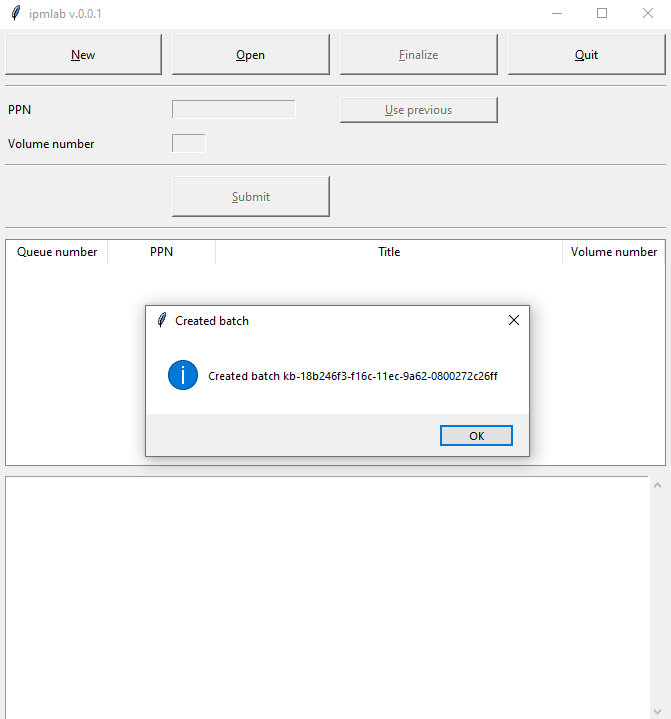
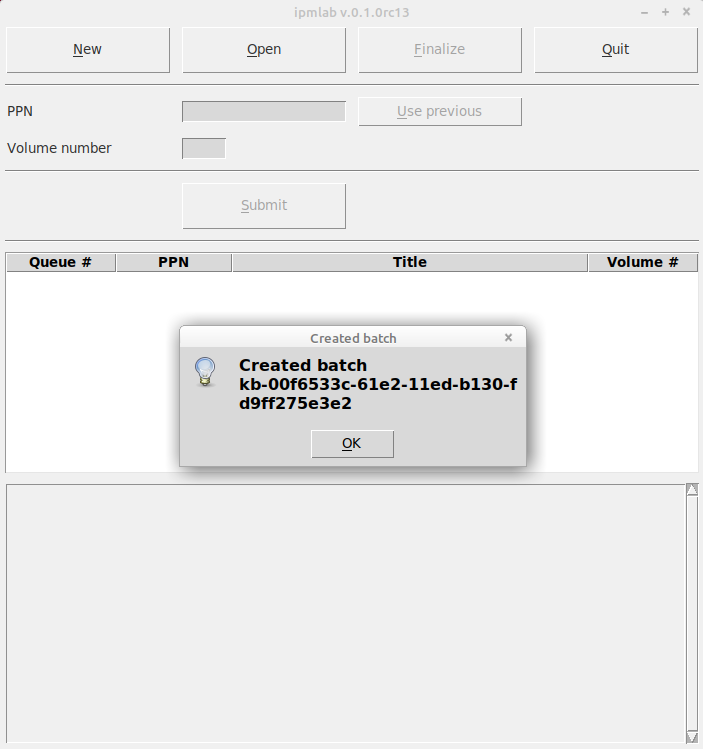
updated screenshots

diff --git a/ipmlab/ipmlab.py b/ipmlab/ipmlab.py
@@ -563,10 +563,10 @@ class carrierEntry(tk.Frame):
         # Treeview widget displays info on entered carriers
         self.tv = ttk.Treeview(self, height=10,
                                columns=('PPN', 'Title', 'VolumeNo'))
-        self.tv.heading('#0', text='Queue number')
+        self.tv.heading('#0', text='Queue #')
         self.tv.heading('#1', text='PPN')
         self.tv.heading('#2', text='Title')
-        self.tv.heading('#3', text='Volume number')
+        self.tv.heading('#3', text='Volume #')
         self.tv.column('#0', stretch=tk.YES, width=5)
         self.tv.column('#1', stretch=tk.YES, width=10)
         self.tv.column('#2', stretch=tk.YES, width=250)

diff --git a/doc/userGuide.md b/doc/userGuide.md
@@ -2,17 +2,6 @@
 
 This User Guide assumes that Ipmlab and its dependencies have been installed and configure. If this is not the case, consult the [Setup Guide](./setupGuide.md) first.
 
----
-**Note on write-blocking**
-
-Before you start using Ipmlab, make sure that Windows cannot write to the removable media you want to image! 
-For example, Windows 10 automatically [writes a "System Volume Information" folder](https://superuser.com/questions/1199823/how-to-prevent-creation-of-system-volume-information-folder-in-windows-10-for) to any writable storage media
-upon insertion (including floppy disks and USB thumb drives). To prevent this from happening, *never* connect these media directly to the computer, but always use a [forensic write blocker](https://en.wikipedia.org/wiki/Forensic_disk_controller) (e.g. [this one](https://security.opentext.com/tableau/hardware/details/t8u) for USB-connected devices).
-
-In addition, for 3.5" floppy disks, ensure the sliding write-protect tab (upper-right corner) is in the open (= protected) position before placing them in the reader.
-
----
-
 ## Getting started
 
 Launch Ipmlab by double-clicking on the Ipmlab Desktop icon. If all goes well the following window appears:
@@ -44,8 +33,6 @@ Now let's process a carrier (such as a floppy disk or thumb drive). We'll assume
 <https://webggc.oclc.org/cbs/DB=2.37/PPN?PPN=144082667>
 
 We start by entering the required fields:
-
-![](./img/ipmSpellingschijf.png)
 
 * *PPN* is the PPN that is associated with the carrier (here: *144082667*).
 * Leave *Volume number* at the default value of *1* (the assignment of volume numbers and how they are related to carrier type is explained further below).
@@ -155,11 +142,21 @@ Each batch contains a file *version.txt*, which holds the Ipmlab version number.
 For each carrier, Ipmlab creates a folder in the batch folder. The name of each folder is (again) a [Universally Unique Identifier](https://en.wikipedia.org/wiki/Universally_unique_identifier), which is based on the hardware address and the current time ("version 1" UUID). Each of these folders contain the following files (with a base name that corresponds to the UUID):
 
 - *xxxxxxxx-xxxx-xxxx-xxxx-xxxxxxxxxxxx.img* - image file (file name follows UUID).
+- *dfxml.xml* - report file in [Digital Forensics XML format](https://en.wikipedia.org/wiki/Digital_Forensics_XML); includes listing of all files on the carrier.
+- *meta-kbmdo.xml* - bibliographic metadata from KB catalogue (only if *enablePPNLookup* is enabled).
+- *checksums.sha512* - checksum file with SHA-512 hashes of all files in this directory.
+
+If Ddrescue is used as the imaging application, the following additional file is generated:
+
+- *xxxxxxxx-xxxx-xxxx-xxxx-xxxxxxxxxxxx.map*  - [ddrescue map file](https://www.gnu.org/software/ddrescue/manual/ddrescue_manual.html#Mapfile-structure).
+
+When Aaru is used, this results in the following additional files:
+
 - *xxxxxxxx-xxxx-xxxx-xxxx-xxxxxxxxxxxx.cicm.xml* - Aaru metadata file. Contains various checksums, and filesystem and file-level metadata. 
 - *xxxxxxxx-xxxx-xxxx-xxxx-xxxxxxxxxxxx.resume.xml* - Aaru resume mapfile (analogous to ddrescue map file).
 - *xxxxxxxx-xxxx-xxxx-xxxx-xxxxxxxxxxxx.log* - Aaru dump log.
 - *xxxxxxxx-xxxx-xxxx-xxxx-xxxxxxxxxxxx.error.log* - Aaru error log.
 - *xxxxxxxx-xxxx-xxxx-xxxx-xxxxxxxxxxxx.ibg* - undocument Aaru file (this looks like some [ImageBurn-specific format](https://forum.imgburn.com/topic/15561-issues-reating-audio-cd/?do=findComment&comment=121649)).
 - Various files ending with a *.bin* file extension - these are written by Aaru (but they are all undocumented, don't know if we should keep them?).
-- *meta-kbmdo.xml* - bibliographic metadata from KB catalogue (only if *enablePPNLookup* is enabled).
-- *checksums.sha512* - checksum file with SHA-512 hashes of all the above files in this directory.
+
+
